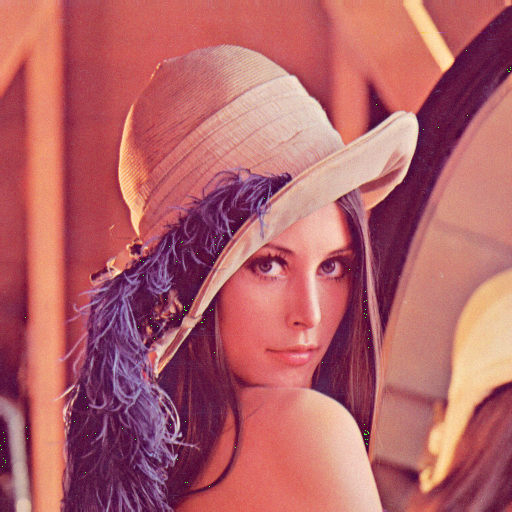
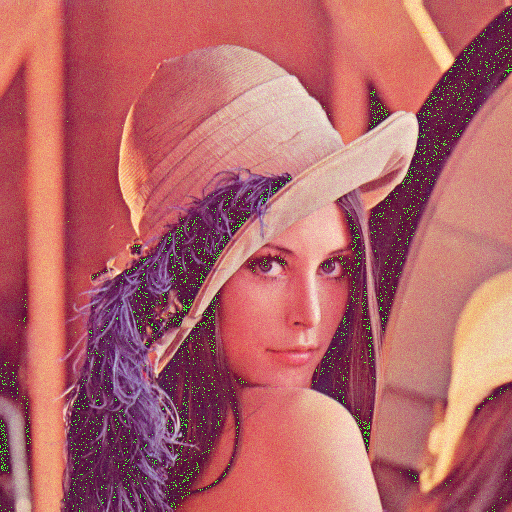
Adding PS-0 README.md

Changed region(s): [[0.0, 0.0, 1.0, 1.0]]

diff --git a/ps_0/ps0.py b/ps_0/ps0.py
@@ -1,5 +1,5 @@
 import numpy as np
-from ps_hepers.helpers import imread_from_rep, add_gaussian_noise, imread, imsave, imfix_scale
+from ps_hepers.helpers import imread_from_rep, add_gaussian_noise, imread, imsave, imfix_scale, imshow
 
 """
 Problem Set - 0
@@ -87,13 +87,13 @@ def p4():
 def p5():
     im = imread_from_rep('lena')
     # a
-    sigma = 5.0
+    sigma = 15.0
     im_green = np.ndarray.copy(im)
     im_green[:, :, 1] = add_gaussian_noise(im_green[:, :, 1], sigma)
     imsave(im_green, 'output/ps0-5-a-1.png')
     # b
     im_blue = np.ndarray.copy(im)
-    im_blue[:, :, 0] = add_gaussian_noise(im_blue[:, :, 0], sigma)
+    im_blue[:, :, 2] = add_gaussian_noise(im_blue[:, :, 2], sigma)
     imsave(im_blue, 'output/ps0-5-b-1.png')
     # c
     """

diff --git a/ps_0/README.md b/ps_0/README.md
@@ -1,0 +1,72 @@
+# Problem Set 0: Images as Functions
+[link to problems](https://docs.google.com/document/d/1PO9SuHMYhx6nDbB38ByB1QANasP1UaEiXaeGeHmp3II/pub?embedded=true)
+
+
+
+### 1. Input images
+a0) Wide image  a1) Tall image  
+>
+><img src="ps_0/output/ps0-1-a-1.png" height="250">
+><img src="ps_0/output/ps0-1-a-2.png" height="250">
+
+
+### 2. Color  planes
+a) Red and blue channels swapped  b) Monochrome from green channel  c) Monochrome from red channel   
+><img src="ps_0/output/ps0-2-a-1.png" height="250">
+><img src="ps_0/output/ps0-2-b-1.png" height="250">
+><img src="ps_0/output/ps0-2-c-1.png" height="250">  
+d) Which looks more like what you’d expect a monochrome image to look like?
+ 
+    In case of Lena's image green channel provides a better gray scale image than the red channel. This can because of 
+    low saturation of red in the image than that of green.
+    But what might not be a coincidence is a standard way of converting RGB images to gray scale gives more weight to
+    the green channel.
+    Y = 0.299 R + 0.587 G + 0.114 B (formula used by open cv's cv.COLOR_RGB2GRAY conversion)
+    This is probably because of the way human's vision system is designed to perceive colors. 
+    Ref: https://respuestas.me/q/deteccion-de-la-vision-humana-del-punto-de-luz-debil-parpadeante-o-en-movim-60506457491
+    http://cadik.posvete.cz/color_to_gray_evaluation/ 
+    
+    
+    Would you expect a computer vision algorithm to work on one better than the other?
+    Of course, yes. A segmentation algorithm will produce different results over different channels of color. For 
+    example, an apple (red) and a lemon(yellow = green + red) might just look alike in red channel but are very 
+    different in green channel.   
+
+### 3. Replacement of pixels
+a) Inserting 100x100 center square crop of image 1 into image 2  
+><img src="ps_0/output/ps0-3-a-1.png" height="250">  
+
+### 4. Arithmetic and Geometric operations
+a)  Min, Max, Mean & Std
+
+    max of pixels 248
+    min of pixels 3
+    average of pixels 99.05121612548828
+    std of pixels 52.87751732904626
+
+b)  "Subtract the mean from all pixels, then divide by standard deviation, then multiply by 10 (if your image is 0 to 255) or by 0.05 (if your image ranges from 0.0 to 1.0). Now add the mean back in"   
+><img src="ps_0/output/ps0-4-b-1.png" height="250">  
+  
+    This step just decreased the contrast as 10.0 < np.std(im)(=52.8)  
+c)  "Shift img1_green to the left by 2 pixels"  d)  "Subtract the shifted version of img1_green from the original"  
+><img src="ps_0/output/ps0-4-c-1.png" height="250">
+><img src="ps_0/output/ps0-4-d-1.png" height="250">  
+What do negative pixel values mean anyways?  
+
+    Negative pixel values occur when I(x,y)<I(x+shift, y). So, a negative value indicates a edge with increasing 
+    intensity towards x direction.  
+
+### 5. Noise Addition
+a)  Noise in green channel (sigma = 15.0) b) Noise in blue channel  
+><img src="ps_0/output/ps0-5-a-1.png" height="250">
+><img src="ps_0/output/ps0-5-b-1.png" height="250">  
+c) Which looks better?  
+
+    The image with noise in the blue channel looks better than the one with green noise.
+   Why?
+
+    This definitely has something to human color perception. The number of cones sensitive to color blue is a lot 
+    lesser than that of color green. 
+    The cones distribution in human eye is (Red - 64%, Green - 32%, Blue - 2%)
+    So, humans are less sensitive to noise in blue channel.
+  
